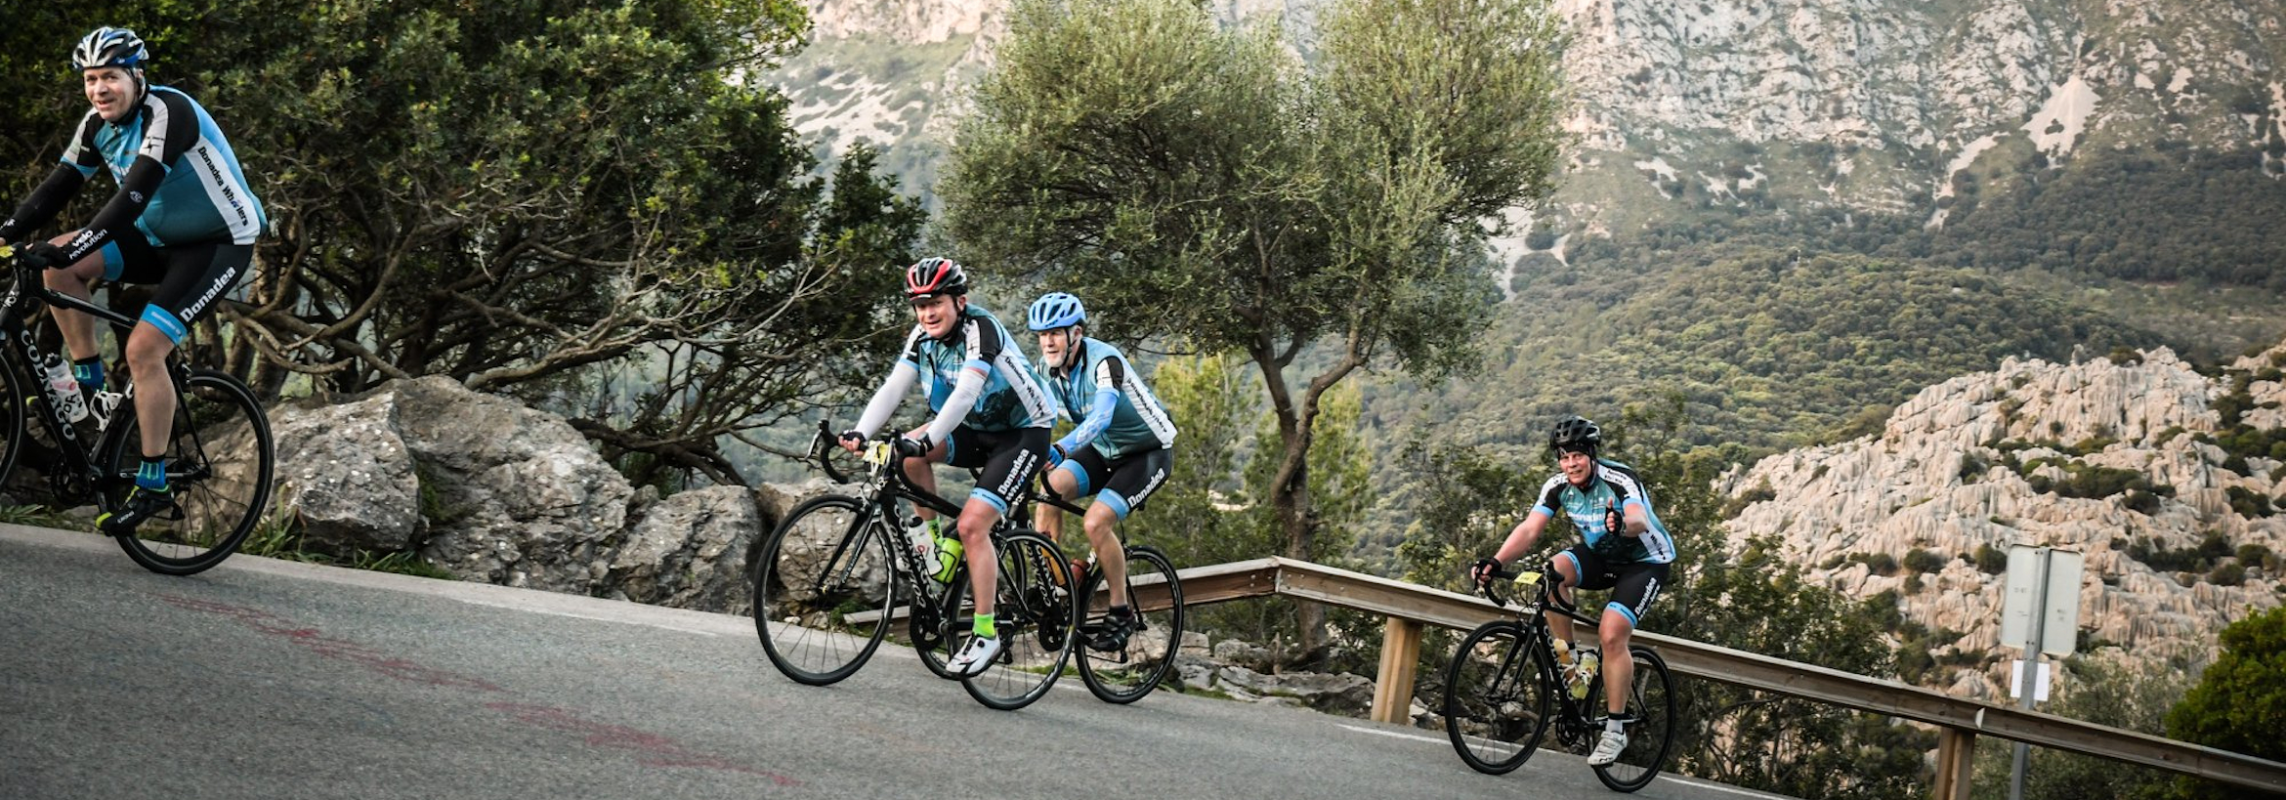
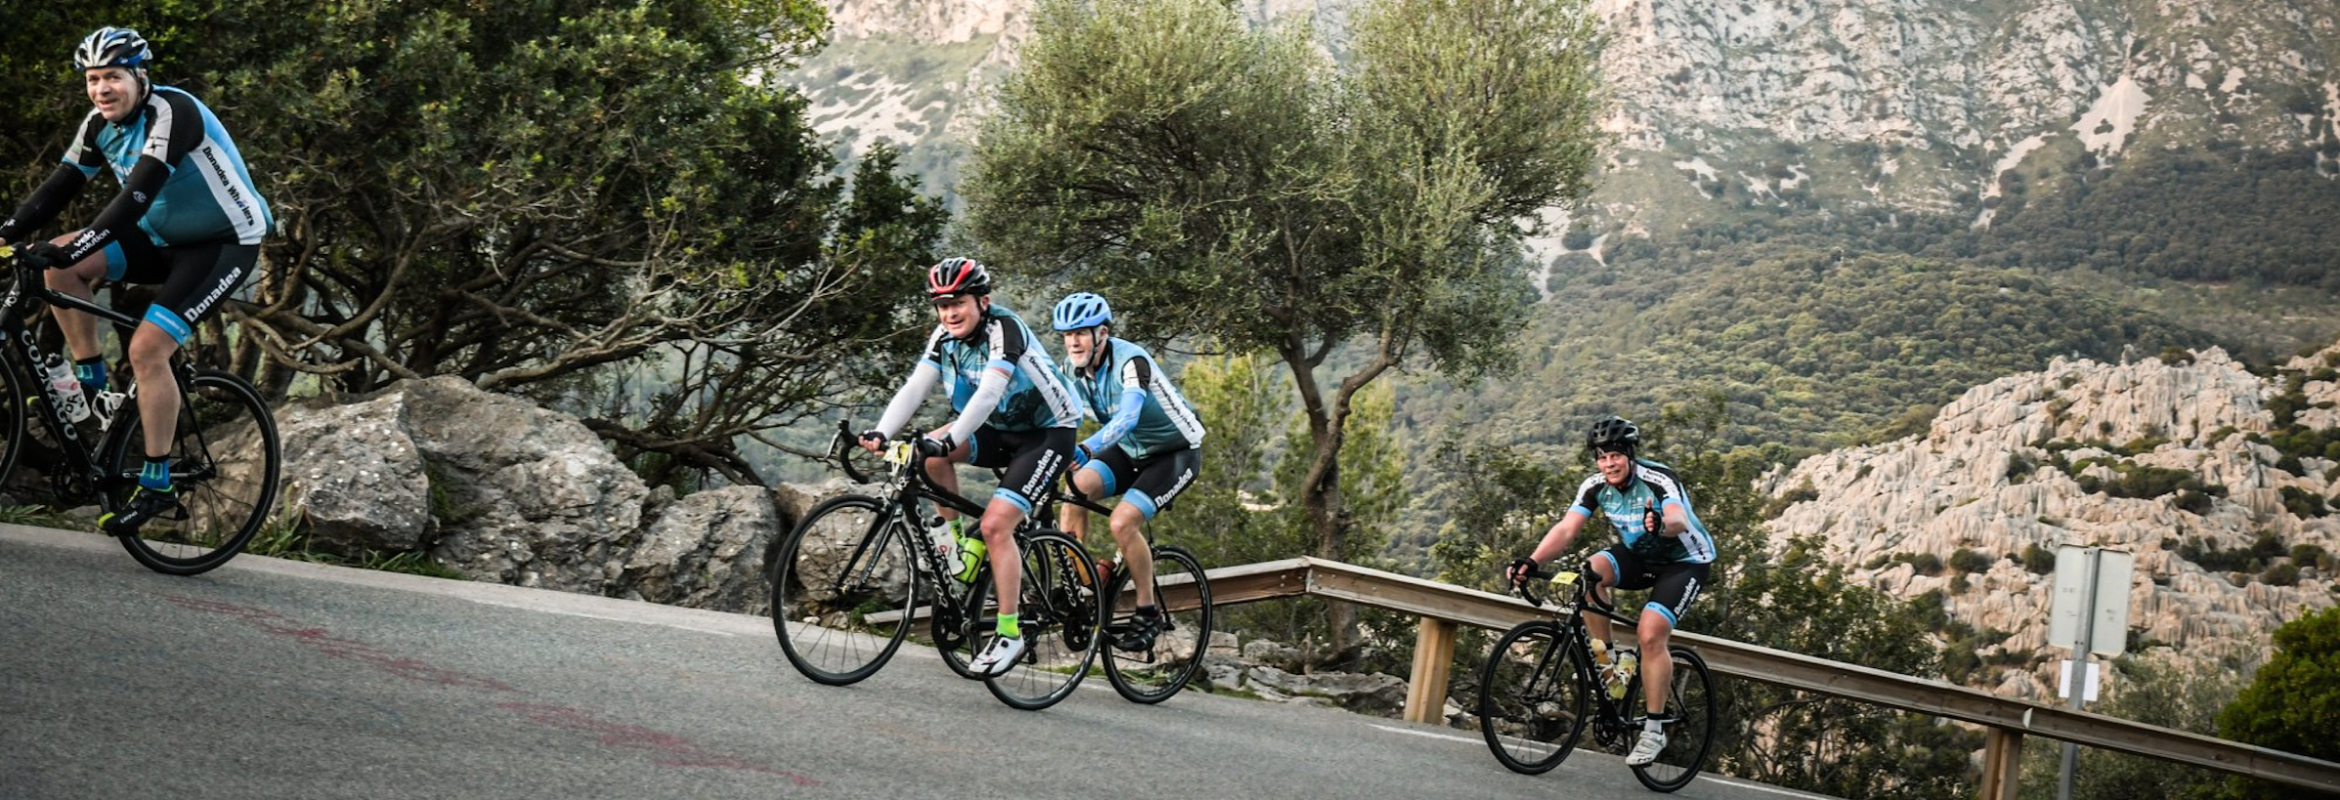
Change to about-main.jpg size and applying large test on about.html

diff --git a/about.html b/about.html
@@ -56,20 +56,20 @@
 
 
     <!--Large Text Section Start-->
-    <!--<div class="row">-->
-    <!--    <div class="col-12">-->
-    <!--        <div class="container-fluid">-->
-    <!--            <a class="large-text-main">Destinations</a>-->
-    <!--        </div>-->
-    <!--    </div>-->
-    <!--</div>-->
+    <div class="row">
+        <div class="col-12">
+            <div class="container-fluid">
+                <a class="large-text-main">About</a>
+            </div>
+        </div>
+    </div>
 
 
     <!--Large Text Section End-->
-    <div class="row">
-        <div class="col-12">
+    
+        
             <div class="container">
-                <h2 class="about-h2-text"> Why us </h2>
+                <!--<h2 class="about-h2-text"> Why us </h2>-->
                 <p class="test-about">
                     <strong>Cycle Tours</strong> was established in March 2017 to deliver a personal and bespoke cycling tours for cyclists of all abilities. We specialise in providing a personal and bespoke service as well as all-inclusive flexible cycling holidays and training camps for
                     individuals and groups. We take the stress out of your trip by organising and providing everything, including ground arrangements, flights and accommodation. Whether you want to explore new destinations or you have a set of specific
@@ -83,8 +83,8 @@
                     <strong>just enjoy the cycling, relax and leave the rest to us</strong>.
                 </p>
             </div>
-        </div>
-    </div>
+        
+    
 
 
     <hr class="hr-about">
